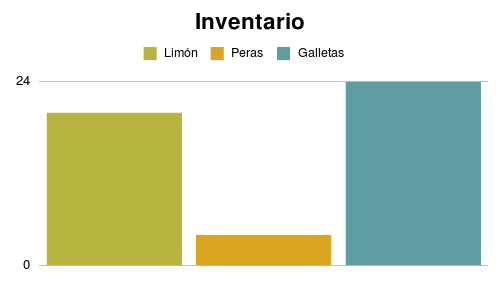
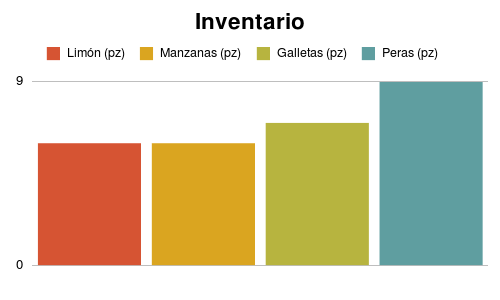
Gráfica cool

diff --git a/app/controllers/materials_controller.rb b/app/controllers/materials_controller.rb
@@ -14,29 +14,42 @@ class MaterialsController < ApplicationController
 
   g = Gruff::Bar.new('500x300')
 
-  first = Material.find(1)
+
+  lista = Material.order("available ASC")
+
+  first = lista[0]
   firstname = first.read_attribute 'name'
+  firstname += " (#{first.unit.abbr})"
   first = first.read_attribute 'available'
   first = first.to_int()
 
-  second = Material.find(2)
+  second = lista[1]
   secondname = second.read_attribute 'name'
+  secondname += " (#{second.unit.abbr})"
   second = second.read_attribute 'available'
   second = second.to_int()
 
-  third = Material.find(3)
+  third = lista[2]
   thirdname = third.read_attribute 'name'
+  thirdname += " (#{third.unit.abbr})"
   third = third.read_attribute 'available'
   third = third.to_int()
+
+  fourth = lista[3]
+  fourthname = fourth.read_attribute 'name'
+  fourthname += " (#{fourth.unit.abbr})"
+  fourth = fourth.read_attribute 'available'
+  fourth = fourth.to_int()
 
   g.title = "Inventario"
   g.data firstname, [first]
   g.data secondname, [second]
   g.data thirdname, [third]
+  g.data fourthname, [fourth]
   g.marker_count = 1
   g.minimum_value = 0
   g.theme = {
-  :colors => %w(#B7B43F #DAA520 #5F9EA0),
+  :colors => %w(#D65433 #DAA520 #B7B43F #5F9EA0),
   :marker_color => 'grey',
   :background_colors => ['white', 'white', :top_bottom]
 }

diff --git a/db/schema.rb b/db/schema.rb
@@ -141,12 +141,12 @@ ActiveRecord::Schema.define(version: 20141122192943) do
     t.string   "reset_password_token"
     t.datetime "reset_password_sent_at"
     t.datetime "remember_created_at"
-    t.integer  "sign_in_count",          default: 0,                                   null: false
+    t.integer  "sign_in_count",          default: 0, null: false
     t.datetime "current_sign_in_at"
     t.datetime "last_sign_in_at"
     t.string   "current_sign_in_ip"
     t.string   "last_sign_in_ip"
-    t.integer  "id",                     default: "nextval('users_id_seq'::regclass)", null: false
+    t.integer  "id",                     default: 0, null: false
   end
 
   add_index "users", ["email"], name: "index_users_on_email", unique: true, using: :btree
